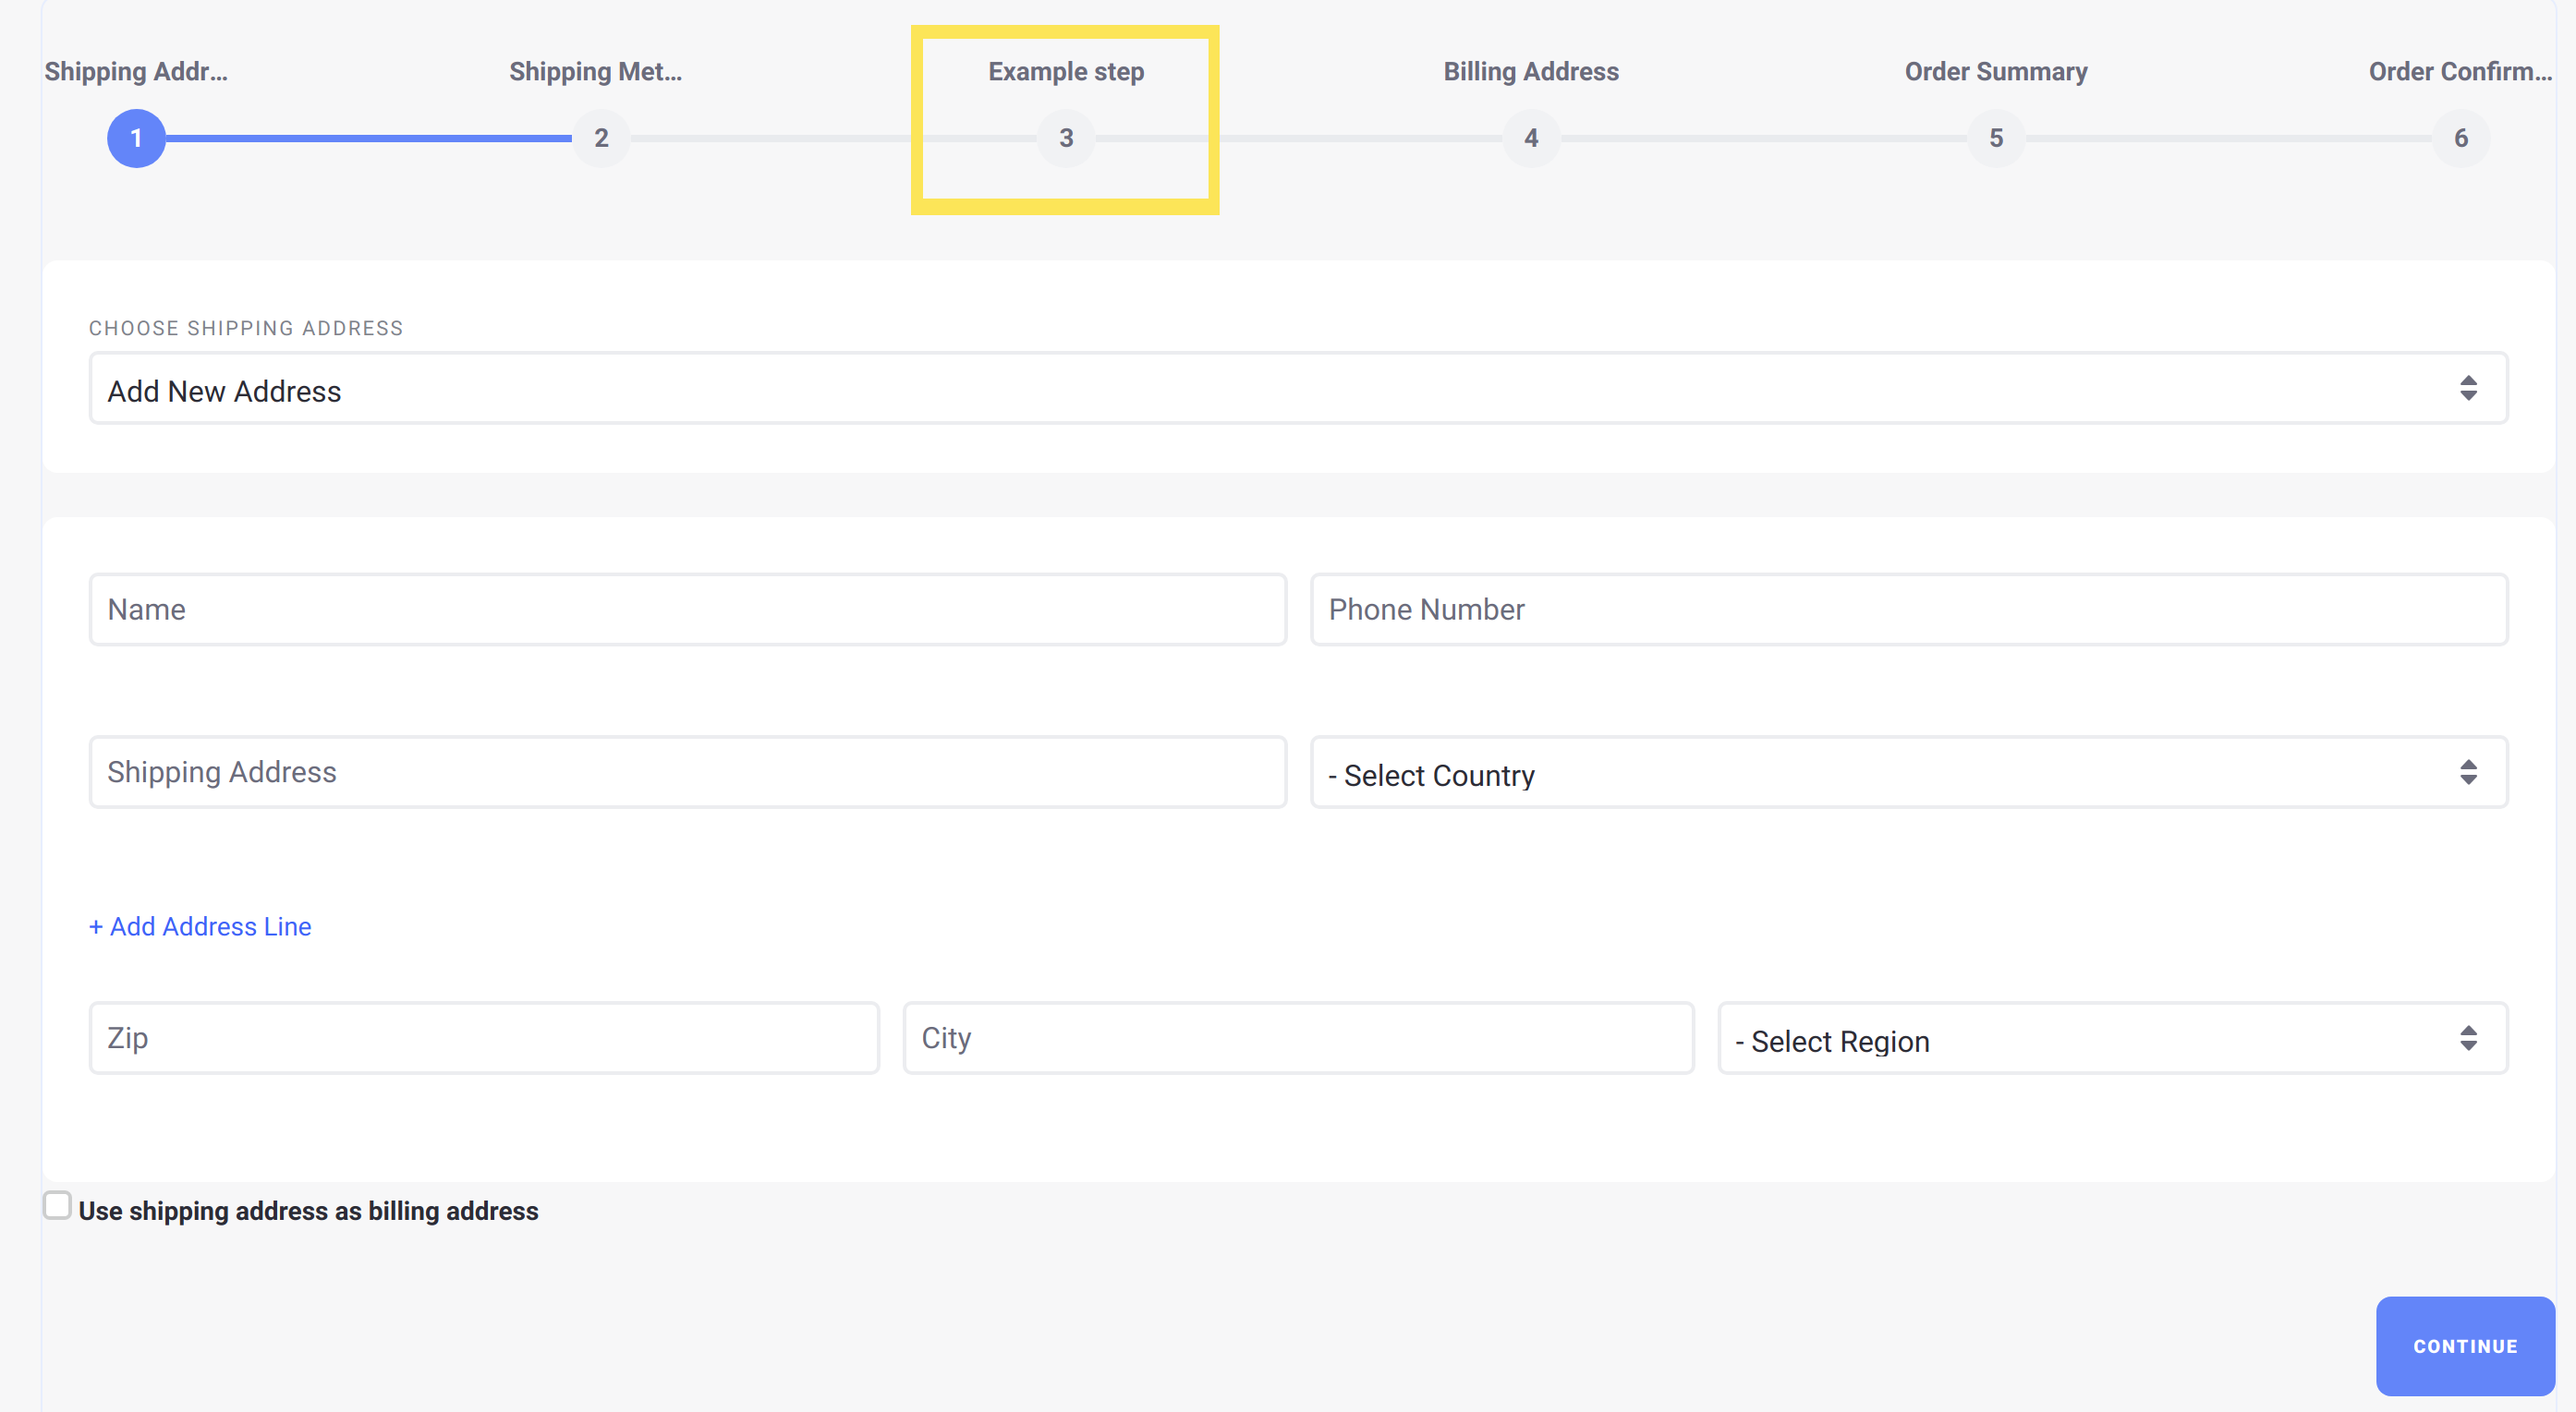
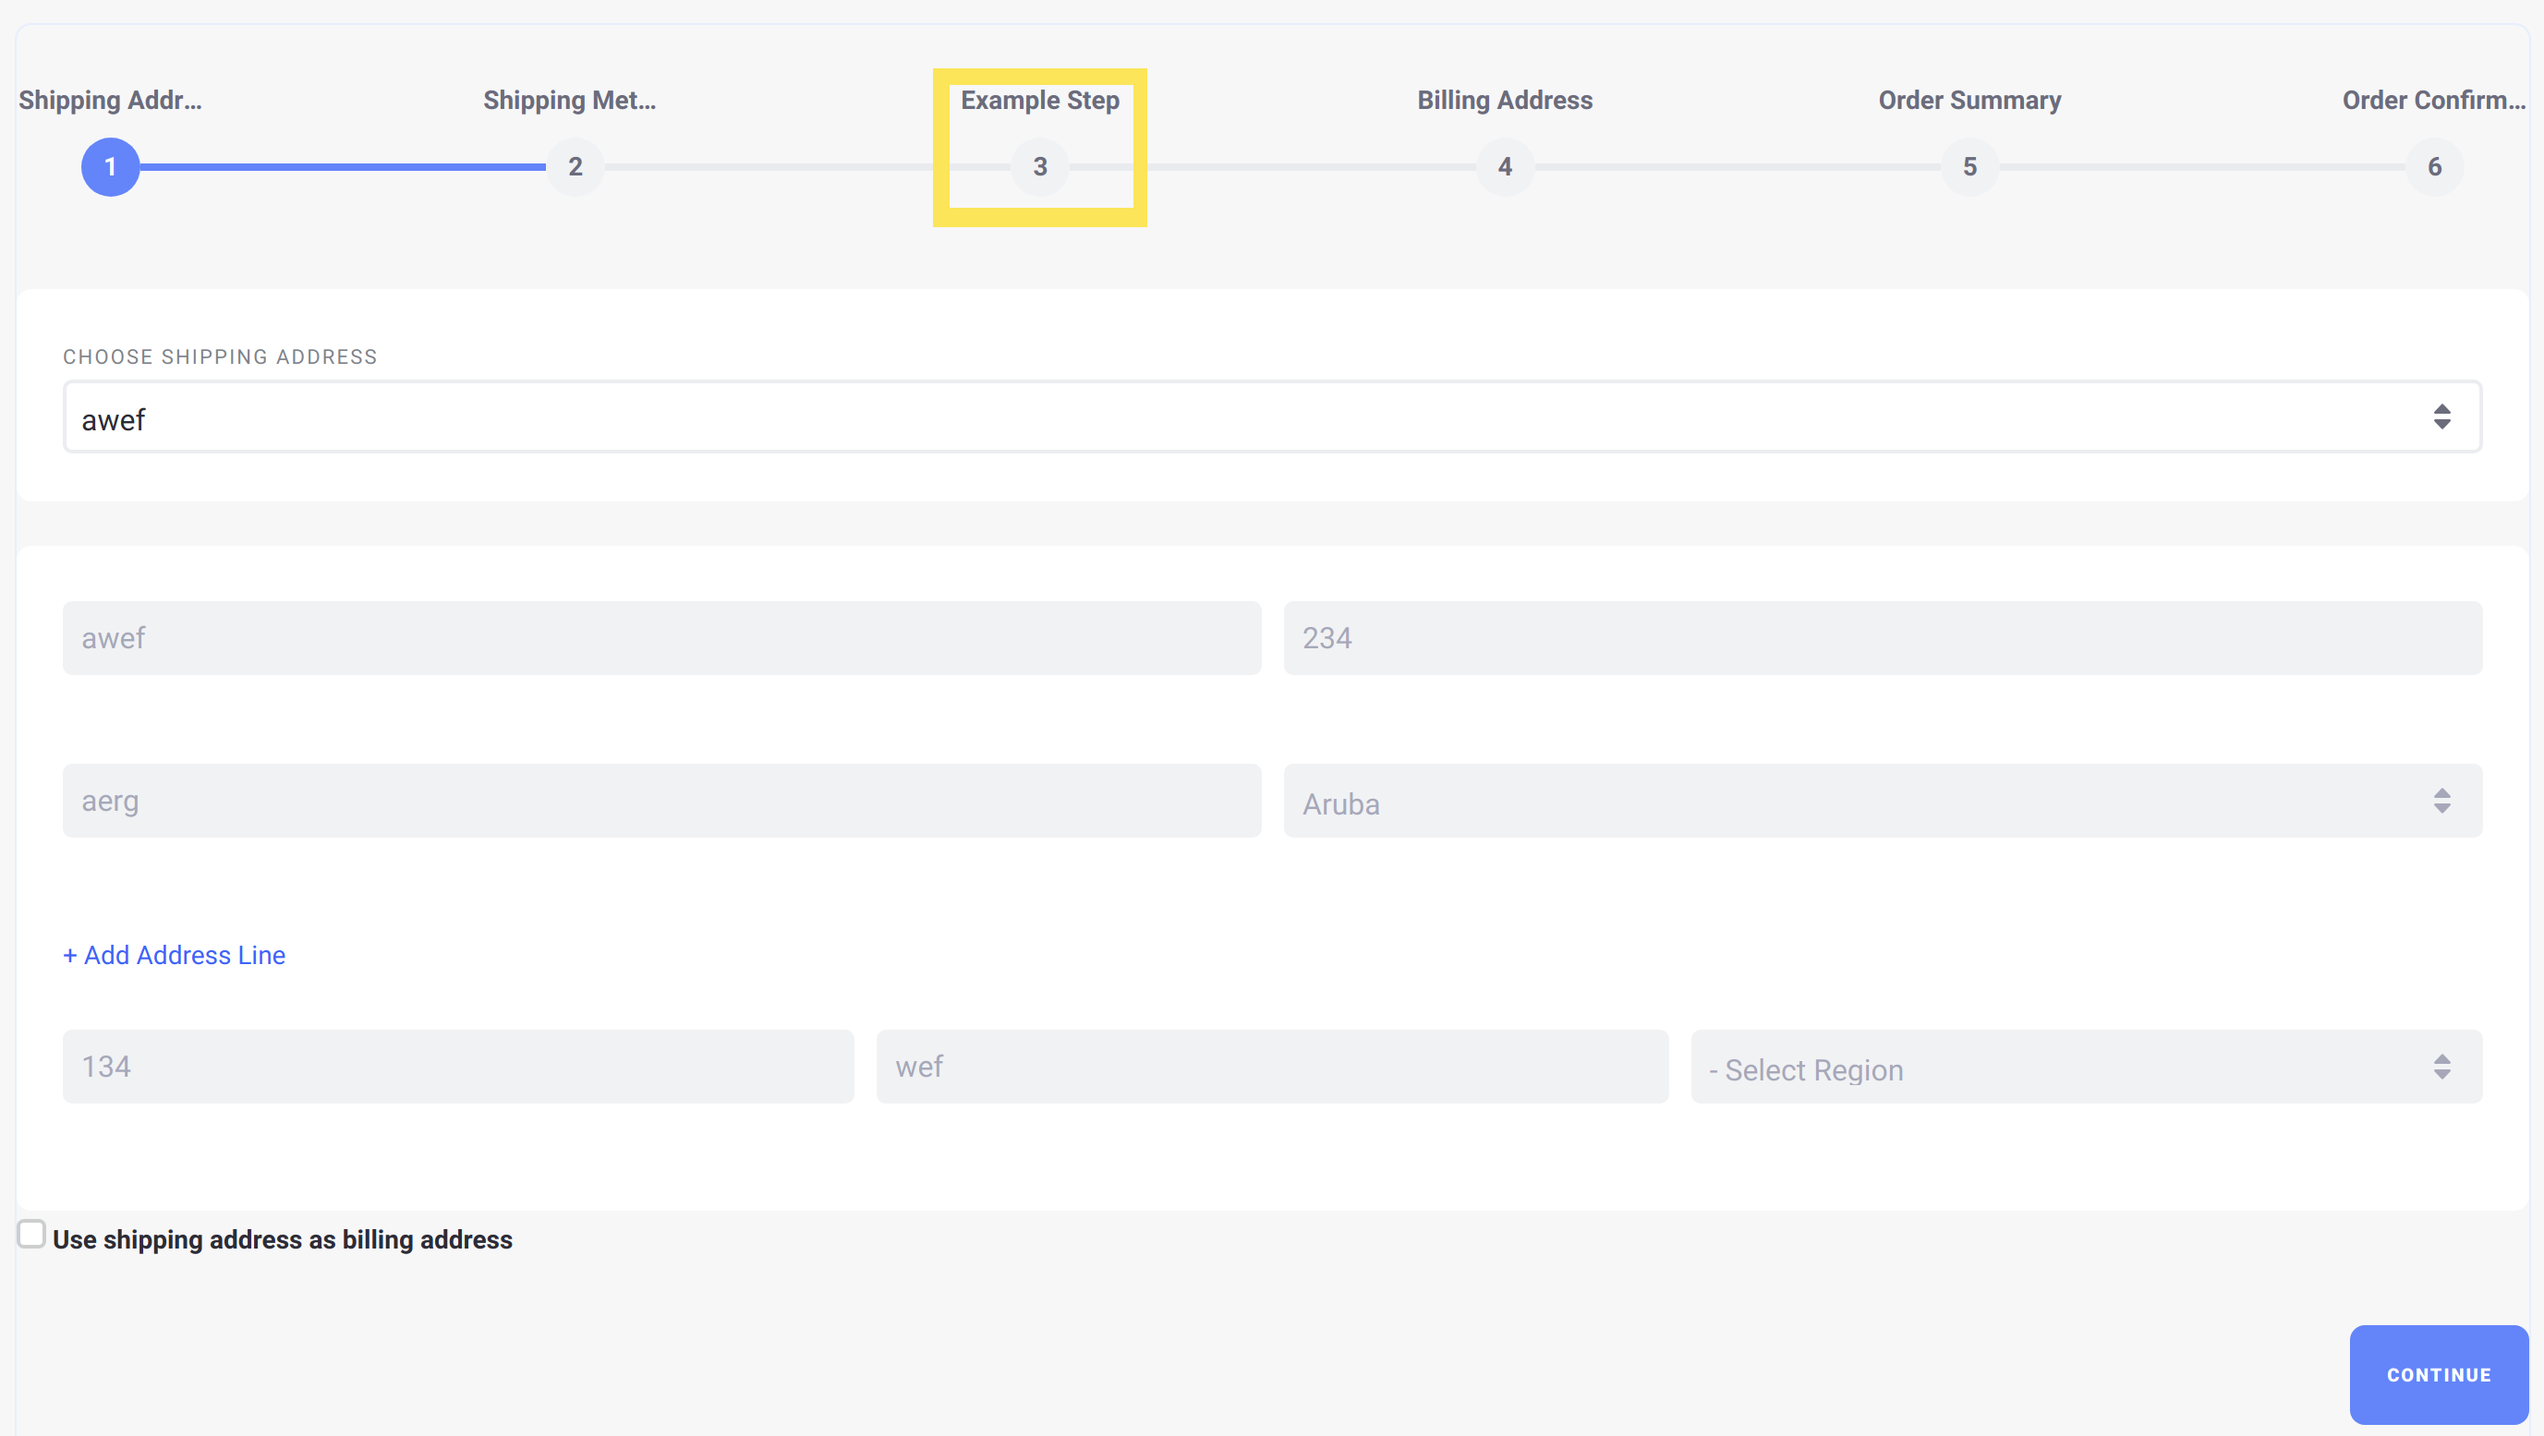
Corrections specific to checkout step article (wording, typos, image to match new capitalization)

diff --git a/commerce/developer-guide/tutorial/implementing-a-custom-checkout-step/README.md b/commerce/developer-guide/tutorial/implementing-a-custom-checkout-step/README.md
@@ -32,7 +32,7 @@ In this section, we will get an example checkout step up and running on your ins
     unzip liferay-n8n6.zip
     ```
 
-1. Go to `xxxx-impl`.
+1. Go to `n8n6-impl`.
 
     ```bash
     cd n8n6-impl
@@ -52,7 +52,7 @@ In this section, we will get an example checkout step up and running on your ins
     STARTED com.acme.n8n6.internal.commerce.util_1.0.0
     ```
 
-1. Verify that the example checkout step was added. Open your browser to `https://localhost:8080` and navigate to a catalog on any Liferay Commerce site. Add any item to the cart, and then click on the cart, and then "Checkout". In the list of checkout steps shown on the screen, the new "Example step" will be present.
+1. Verify that the example checkout step was added. Open your browser to `https://localhost:8080` and navigate to a catalog on any Liferay Commerce site. Add any item to the cart, and then click on the cart, and then click "Checkout". In the list of checkout steps shown on the screen, the new "Example Step" will be present.
 
 ![New checkout step](./images/02.png "New checkout step")
 
@@ -150,7 +150,7 @@ To better understand each of the required methods mentioned above, let's look at
 
 ### Create the Checkout Step
 
-To implement the checkout step itself, we need to add then implementation for the `processAction` and `render` methods, and then add a JSP to render the screen for the new checkout step. In our simple example, we will only display some text on our custom screen, so we do not need any special backend processing in our `processAction` implementation.
+To implement the checkout step itself, we need to add the implementation for the `processAction` and `render` methods, and then add a JSP to render the screen for the new checkout step. In our simple example, we will only display some text on our custom screen, so we do not need any special backend processing in our `processAction` implementation.
 
 `public void render(HttpServletRequest httpServletRequest, HttpServletResponse httpServletResponse) throws Exception`
 
@@ -176,16 +176,16 @@ For the JSP to be able to properly use the `ServletContext` to find the JSP in o
 private ServletContext _servletContext;
 ```
 
-> The value we have set here for `osgi.web.symbolicname` matches the value for `Bundle-SymbolicName` in our [bnd.bnd](./liferay-n8n6.zip/n8n6-impl/bnd.bnd). These values must match for the `ServletContext` to look in the proper location for the JSP.
+> The value we have set here for `osgi.web.symbolicname` matches the value for `Bundle-SymbolicName` in our [bnd.bnd file](./liferay-n8n6.zip/n8n6-impl/bnd.bnd). These values must match for the `ServletContext` to look in the proper location for the JSP.
 >
-> Note that, for the `ServletContext` to be properly generated, we also need to declare a unique value for `Web-ContextPath` in our bnd.bnd. In our example, we have that set to the value `/commerce-checkout-step`. For a reference on these values, see [bnd.bnd](./liferay-n8n6.zip/n8n6-impl/bnd.bnd) for this example.
+> Note that, for the `ServletContext` to be properly generated, we also need to declare a unique value for `Web-ContextPath` in our bnd.bnd file. In our example, we have that set to the value `/commerce-checkout-step`. For a reference on these values, see [the bnd.bnd file](./liferay-n8n6.zip/n8n6-impl/bnd.bnd) for this example.
 
 Next, we need to define the JSP for our checkout step's screen in the UI. In our example, we are simply adding placeholder text for some generic messages; you can see the implementation at [terms_and_conditions.jsp](./liferay-n8n6.zip/n8n6-impl/src/main/resources/META-INF/resources/terms_and_conditions.jsp).
 
 Lastly, we will need to add the language key for the name of our new checkout step. Add the key and its value to a [Language.properties](./liferay-n8n6.zip/n8n6-impl/src/main/resources/content/Language.properties) file within our module:
 
 ```
-example-step=Example step
+example-step=Example Step
 ```
 
 ## Conclusion
